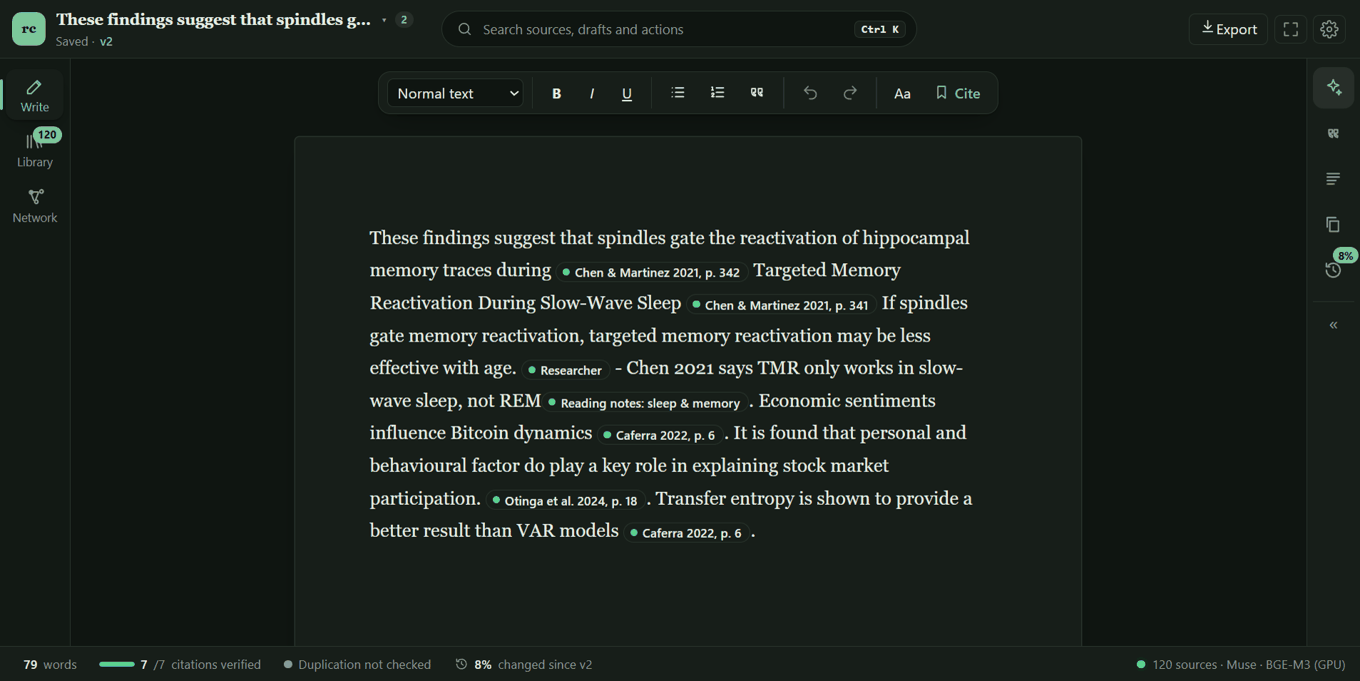
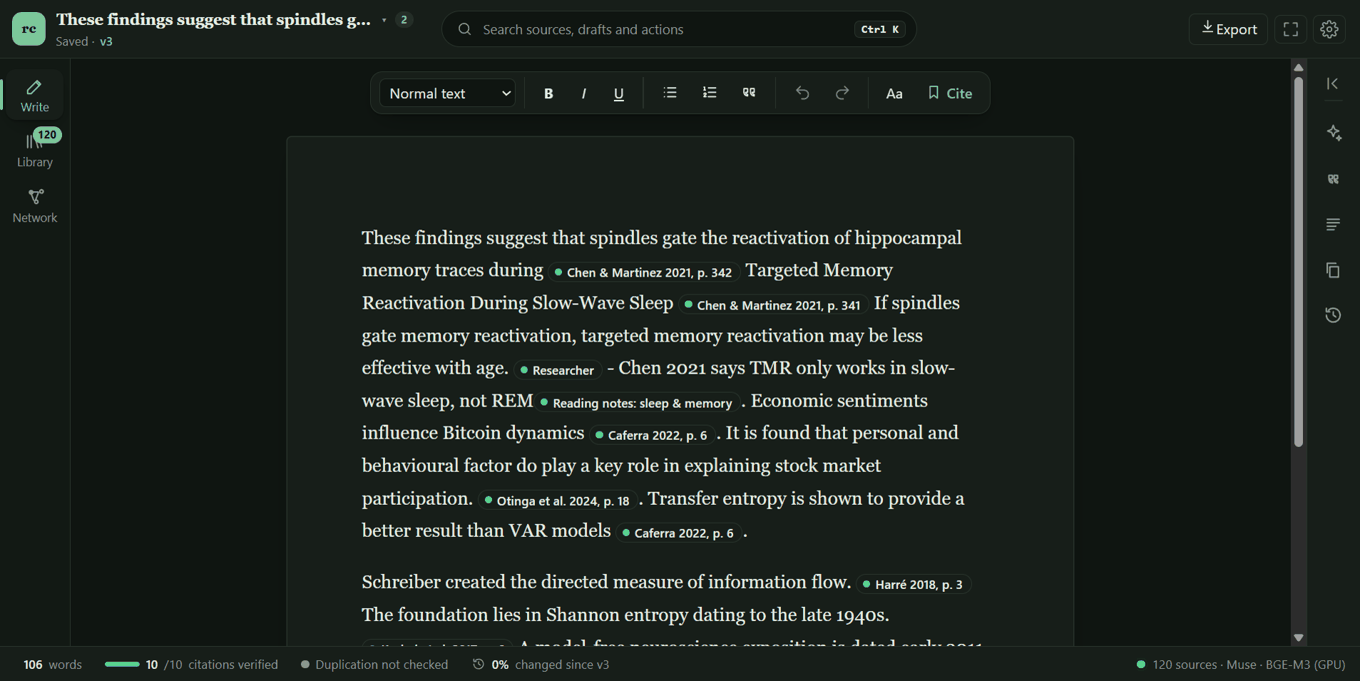
Pick the Assistant's sentences, scroll the whole column, toggle in the panel header
- The Assistant's draft has a tick box per sentence, none ticked; only
  the ticked ones are inserted, in the draft's order.
- The writing column is the scroller, so its scrollbar runs the full
  height; the formatting toolbar stays pinned at the top. The Write view
  also gets a row the height of the window: a long draft used to stretch
  it past the window and get clipped instead of scrolling.
- The writing tools open and close from a button at the panel's
  top-right (and the top of the icon strip when closed), not after the
  History tab or in the top bar.

diff --git a/desktop/src/styles.css b/desktop/src/styles.css
@@ -98,7 +98,9 @@ textarea { width: 100%; resize: vertical; }
 /* clip, not hidden: scrolling a quote into view must not scroll the whole view and hide the tabs */
 .view { position: relative; min-width: 0; min-height: 0; overflow: clip; }
 .view[hidden] { display: none !important; }
-.write-view { display: grid; grid-template-columns: minmax(0, 1fr) var(--panel-w); }
+/* One row the height of the window: the page and the panel each scroll inside it. Without it the row
+   grew to fit a long draft, and the view clipped the draft instead of letting it scroll. */
+.write-view { display: grid; grid-template-columns: minmax(0, 1fr) var(--panel-w); grid-template-rows: minmax(0, 1fr); }
 @media (max-width: 1200px) { :root { --panel-w: 360px; } }
 .library-view { display: flex; }
 .library-view .library { flex: 1; }
@@ -179,8 +181,18 @@ textarea { width: 100%; resize: vertical; }
   color: var(--accent-text); font: 700 10px/1.4 system-ui, sans-serif; font-style: normal;
 }
 .tab-hint { margin: 0; padding: 8px 16px; font-size: 12px; color: var(--muted); border-bottom: 1px solid var(--border); flex: none; }
-.tabs-close { flex: none; align-self: center; border: none; background: none; padding: 4px 8px; color: var(--muted); font-size: 18px; line-height: 1; }
-.tabs-close:hover:not(:disabled) { color: var(--text); }
+/* The panel's title row, with the button that closes it at the top-right; closed, the same button
+   tops the icon strip, in the same corner */
+.panel-title { display: flex; align-items: center; justify-content: space-between; gap: 8px; padding: 8px 8px 0 16px; flex: none; }
+.panel-title h2 { margin: 0; font: 700 11px/1 system-ui, sans-serif; letter-spacing: 0.08em; text-transform: uppercase; color: var(--muted); }
+.panel-toggle {
+  display: grid; place-items: center; width: 32px; height: 32px; padding: 0; border: 1px solid transparent; border-radius: 8px;
+  background: none; color: var(--muted);
+}
+.panel-toggle:hover:not(:disabled) { color: var(--accent); background: var(--hover); border-color: var(--border); }
+.strip-toggle { margin-bottom: 6px; }
+.tool-strip .strip-toggle + .strip-btn { margin-top: 2px; }
+.tool-strip .strip-toggle { box-shadow: 0 8px 0 -7px var(--border); }
 /* Closed: a slim strip of the tabs' icons, with their badges */
 .write-view.tools-closed { grid-template-columns: minmax(0, 1fr) 52px; }
 .tool-strip { display: flex; flex-direction: column; align-items: center; gap: 4px; padding: 8px 0; }
@@ -190,7 +202,6 @@ textarea { width: 100%; resize: vertical; }
 }
 .strip-btn:hover:not(:disabled) { color: var(--accent); background: var(--hover); }
 .strip-btn .tab-badge { top: -2px; right: -4px; }
-.strip-open { margin-top: 6px; font-size: 18px; border-top: 1px solid var(--border); border-radius: 0 0 10px 10px; }
 
 /* Focus mode: the page and its toolbar only */
 .app.focus { grid-template-rows: minmax(0, 1fr); }
@@ -270,8 +281,9 @@ button.danger:hover:not(:disabled) { background: var(--bad); filter: brightness(
 .lib-empty ol { margin: 0; padding-left: 18px; }
 
 /* Editor */
-.writing { display: flex; flex-direction: column; min-width: 0; height: 100%; }
-.editor-wrap { flex: 1; overflow-y: auto; padding: 22px 24px 120px; }
+/* The whole column scrolls, so its scrollbar runs the full height; the toolbar stays pinned at the top */
+.writing { display: flex; flex-direction: column; min-width: 0; min-height: 0; height: 100%; overflow-y: auto; }
+.editor-wrap { flex: none; padding: 22px 24px 120px; }
 .offline { color: var(--bad); font-size: 12px; font-weight: 600; }
 .export { display: flex; align-items: center; gap: 6px; }
 .export .saved { max-width: 180px; overflow: hidden; text-overflow: ellipsis; white-space: nowrap; }
@@ -282,6 +294,7 @@ button.danger:hover:not(:disabled) { background: var(--bad); filter: brightness(
 .format-toolbar {
   display: flex; align-items: center; justify-content: center; gap: 4px; flex-wrap: wrap;
   width: fit-content; max-width: calc(100% - 32px); margin: 12px auto 0; padding: 5px 8px;
+  position: sticky; top: 12px; z-index: 5; flex: none;
   background: var(--panel); border: 1px solid var(--border); border-radius: 12px; box-shadow: var(--shadow);
 }
 .format-toolbar button { border-color: transparent; background: transparent; }
@@ -382,6 +395,13 @@ button.danger:hover:not(:disabled) { background: var(--bad); filter: brightness(
 .draft-preview { margin-top: 12px; border-top: 1px solid var(--border); padding-top: 8px; }
 .draft-sentence { padding: 8px 0; border-bottom: 1px solid var(--border); }
 .draft-sentence p { margin: 0 0 4px; }
+/* Pick the sentences to insert: tick, or click the sentence */
+.draft-hint { margin: 2px 0 4px; }
+.draft-sentence.picked { background: color-mix(in srgb, var(--accent) 7%, transparent); border-radius: 6px; }
+.draft-pick { display: flex; gap: 10px; align-items: flex-start; cursor: pointer; padding: 0 6px; }
+.draft-pick input { flex: none; margin: 4px 0 0; width: 15px; height: 15px; accent-color: var(--accent); cursor: pointer; }
+.draft-cites { padding-left: 31px; display: flex; flex-wrap: wrap; gap: 2px 8px; }
+.draft-actions { position: sticky; bottom: -24px; padding: 10px 0 34px; /* down over the tab body's bottom padding, so nothing shows beneath */ background: var(--panel); border-top: 1px solid var(--border); margin-top: 8px; }
 .cite-row { display: inline-flex; gap: 6px; align-items: center; border: none; background: none; padding: 2px 4px 2px 0; font-size: 12px; color: var(--muted); }
 .badge { font-size: 11px; border-radius: 10px; padding: 0 7px; white-space: nowrap; }
 .badge-pending { background: var(--pending-bg); color: var(--pending); }

diff --git a/desktop/src/components/AssistantPanel.tsx b/desktop/src/components/AssistantPanel.tsx
@@ -30,10 +30,19 @@ export function AssistantPanel({ scope, passages, sourceCount, onChooseSources, 
   const [instruction, setInstruction] = useState('')
   const [sentences, setSentences] = useState<DraftSentence[] | null>(null)
   const [busy, setBusy] = useState(false)
+  const [picked, setPicked] = useState<Set<number>>(new Set()) // sentences ticked for inserting
+
+  const toggle = (i: number) =>
+    setPicked((p) => {
+      const n = new Set(p)
+      n.has(i) ? n.delete(i) : n.add(i)
+      return n
+    })
 
   async function draft() {
     setBusy(true)
     setSentences(null)
+    setPicked(new Set())
     try {
       const res = await api.draft(instruction.trim(), getContext(), scope.length ? scope : null, passages)
       const withIds = res.sentences.map((s) => ({
@@ -130,20 +139,41 @@ export function AssistantPanel({ scope, passages, sourceCount, onChooseSources, 
           <div className="row">
             <strong>Draft</strong>
             {!!flagged && <span className="warn">{flagged} sentence(s) need attention</span>}
-            <button className="primary" onClick={() => onInsert(sentences)}>Insert into document</button>
           </div>
+          <p className="muted draft-hint">Tick the sentences you want, then insert them. Click a citation to see its quote.</p>
           {sentences.map((s, i) => (
-            <div key={i} className="draft-sentence">
-              <p>{s.text}</p>
-              {s.citations.length === 0 && <StatusBadge status="unsupported" text="no citation" />}
-              {s.citations.map((c) => (
-                <button key={c.cid} className="cite-row" onClick={() => onOpenCitation(c)} title={c.reason}>
-                  <StatusBadge status={c.status} />
-                  <span>{c.label}</span>
-                </button>
-              ))}
+            <div key={i} className={`draft-sentence${picked.has(i) ? ' picked' : ''}`}>
+              <label className="draft-pick">
+                <input type="checkbox" checked={picked.has(i)} onChange={() => toggle(i)} />
+                <p>{s.text}</p>
+              </label>
+              <div className="draft-cites">
+                {s.citations.length === 0 && <StatusBadge status="unsupported" text="no citation" />}
+                {s.citations.map((c) => (
+                  <button key={c.cid} className="cite-row" onClick={() => onOpenCitation(c)} title={c.reason}>
+                    <StatusBadge status={c.status} />
+                    <span>{c.label}</span>
+                  </button>
+                ))}
+              </div>
             </div>
           ))}
+          <div className="row draft-actions">
+            <button className="link" onClick={() => setPicked(picked.size === sentences.length ? new Set() : new Set(sentences.map((_, i) => i)))}>
+              {picked.size === sentences.length ? 'Select none' : 'Select all'}
+            </button>
+            <button
+              className="primary"
+              disabled={!picked.size}
+              onClick={() => {
+                // In the draft's order, whatever order they were ticked in.
+                onInsert(sentences.filter((_, i) => picked.has(i)))
+                setPicked(new Set())
+              }}
+            >
+              {picked.size ? `Insert ${picked.size} selected` : 'Tick sentences to insert'}
+            </button>
+          </div>
         </div>
       )}
     </div>

diff --git a/desktop/src/App.tsx b/desktop/src/App.tsx
@@ -970,6 +970,12 @@ export default function App() {
           <aside className="panel side-panel" aria-label="Writing tools">
             {toolsOpen ? (
               <>
+                <header className="panel-title">
+                  <h2>Writing tools</h2>
+                  <button className="panel-toggle" onClick={() => setToolsOpen(false)} title="Close the writing tools (Ctrl+\)" aria-label="Close the writing tools">
+                    <Icon name="collapse" size={18} />
+                  </button>
+                </header>
                 <div className="tabs" role="tablist" aria-label="Writing tools">
                   {TABS.map((t) => (
                     <button
@@ -985,28 +991,20 @@ export default function App() {
                       {tabBadge(t.tab)}
                     </button>
                   ))}
-                  <button
-                    className="tabs-close"
-                    onClick={() => setToolsOpen(false)}
-                    title="Close the writing tools (Ctrl+\)"
-                    aria-label="Close the writing tools"
-                  >
-                    »
-                  </button>
                 </div>
                 <p className="tab-hint">{TAB[tab].hint}</p>
               </>
             ) : (
               <nav className="tool-strip" aria-label="Writing tools">
+                <button className="panel-toggle strip-toggle" onClick={() => setToolsOpen(true)} title="Open the writing tools (Ctrl+\)" aria-label="Open the writing tools">
+                  <Icon name="expand" size={18} />
+                </button>
                 {TABS.map((t) => (
                   <button key={t.tab} className="strip-btn" onClick={() => pickTab(t.tab)} title={`${t.label}: ${t.hint}`} aria-label={t.label}>
                     <Icon name={t.icon} size={20} />
                     {tabBadge(t.tab)}
                   </button>
                 ))}
-                <button className="strip-btn strip-open" onClick={() => setToolsOpen(true)} title="Open the writing tools (Ctrl+\)" aria-label="Open the writing tools">
-                  «
-                </button>
               </nav>
             )}
             {/* Kept mounted while closed, so a draft from the Assistant or a cite search's results survive. */}

diff --git a/desktop/src/components/Icon.tsx b/desktop/src/components/Icon.tsx
@@ -2,6 +2,8 @@
 const PATHS = {
   write: 'M4 20h4L19 9l-4-4L4 16zM13.5 6.5l4 4',
   focus: 'M4 9V4h5M20 9V4h-5M4 15v5h5M20 15v5h-5',
+  collapse: 'M8 6l6 6-6 6M19 5v14', // close a panel on the right: chevron toward its edge
+  expand: 'M16 6l-6 6 6 6M5 5v14',
   library: 'M4 5v14M8 5v14M12 5l4 14M17 5l3 13',
   network: 'M6 7a2 2 0 1 0 0-.01M18 6a2 2 0 1 0 0-.01M12 18a2 2 0 1 0 0-.01M7.8 7.8l3.2 8.4M16.4 7.4l-3.4 8.8M8 6.6h8',
   assistant: 'M12 3l1.8 4.7L18.5 9.5l-4.7 1.8L12 16l-1.8-4.7L5.5 9.5l4.7-1.8zM18.5 15l.8 2 2 .8-2 .8-.8 2-.8-2-2-.8 2-.8z',

diff --git a/docs/USER_GUIDE.md b/docs/USER_GUIDE.md
@@ -33,11 +33,11 @@ The window has four parts:
 
 ### Open and close the writing tools
 
-The **»** at the end of the tabs, or `Ctrl+\`, closes the writing tools and gives the page the room. A slim strip of their icons stays on the right, with their counts (citations to confirm, duplication, change since the last version):
+The **>|** button at the top-right of the panel, beside its *Writing tools* title, or `Ctrl+\`, closes the writing tools and gives the page the room. A slim strip of their icons stays on the right, with their counts (citations to confirm, duplication, change since the last version):
 
 ![The writing tools closed to a strip of icons](images/tools-closed.png)
 
-Click an icon to open that tab, or **«** to open the panel as it was. Anything that needs a tool opens it by itself: clicking a citation or a cite marker, a count in the status bar, or an action from Ctrl K. The app remembers whether you left it open; Settings can make it always start open or closed.
+Click an icon to open that tab, or the **|<** button at the top of the strip (the same corner) to open the panel as it was. Anything that needs a tool opens it by itself: clicking a citation or a cite marker, a count in the status bar, or an action from Ctrl K. The app remembers whether you left it open; Settings can make it always start open or closed.
 
 ### Focus mode
 
@@ -126,7 +126,7 @@ The **Assistant** tab drafts from your sources. Type what you want (or pick an e
 | weak (amber) | The quote is there but only partly supports it. |
 | unsupported / quote not found (red) | The source doesn't back the sentence, or the quote isn't in it. |
 
-Click a citation to see its passage. **Insert into document** puts the draft at the cursor, or at the end if you haven't clicked into the page yet.
+Click a citation to see its passage. Tick the sentences you want to keep (or click a sentence; **Select all** ticks every one), then **Insert N selected** puts just those in, in the draft's order, at the cursor, or at the end if you haven't clicked into the page yet.
 
 ## 4. Back up each claim
 
